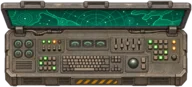
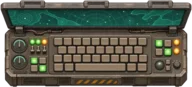
Update command facility terminal art and debris

diff --git a/js/infiltration-world.js b/js/infiltration-world.js
@@ -58,6 +58,8 @@ function indoorGenerateFloor(number,rng=Math.random,sharedStairIndex=null,second
   const center=i=>{const {c,r}=coord(i);return{x:X0+(c+.5)*SIZE,y:Y0+(r+.5)*SIZE};};
   const patterns=['H','L','T','四角','コ'];
   const commandBasement=commandFacility&&number===2;
+  const propScaleY=commandFacility?1.75*INDOOR_SCALE_X:INDOOR_SCALE_Y;
+  const cargoDepth=INDOOR_SCALE_Y/propScaleY;
   const pattern=commandBasement?'指揮室':laboratory?'外周':patterns[Math.floor(rng()*patterns.length)];
   const hall=new Set(),add=(c,r)=>hall.add(index(c,r));
   if(commandBasement){
@@ -422,7 +424,7 @@ function indoorGenerateFloor(number,rng=Math.random,sharedStairIndex=null,second
     item.primaryAsset=!!(room&&slot===0);
     const labSize=laboratory?laboratoryPropSize(item.artKind):null;
     const ar=labSize?labSize.w/labSize.h:INDOOR_PROP_ASPECT[item.artKind];if(!ar)continue;
-    const maxW=item.w*INDOOR_SCALE_X,maxH=item.h*INDOOR_SCALE_Y;
+    const maxW=item.w*INDOOR_SCALE_X,maxH=item.h*propScaleY;
     let h=Math.min(maxH,maxW/ar),w=h*ar;
     if(item.artKind==='bed'){h=104;w=h*ar;}
     if(INDOOR_PROP_LENGTH[item.artKind]){h=INDOOR_PROP_LENGTH[item.artKind];w=h*ar;}
@@ -529,16 +531,18 @@ function indoorGenerateFloor(number,rng=Math.random,sharedStairIndex=null,second
     if(count<=0)return false;
     const columns=zone==='hallway'||kind==='shellPallet'||kind==='crate'?1:2;
     const gap=kind==='shellPallet'?0:7;
-    const itemH=kind==='crate'?size/1.5/INDOOR_SCALE_Y:size;
+    const itemH=kind==='crate'?size/1.5/INDOOR_SCALE_Y:size/cargoDepth;
     const rows=Math.ceil(count/columns),width=columns*size+(columns-1)*gap,height=rows*itemH+(rows-1)*gap;
     const positions=zone==='hallway'
       ?hallCorners(width,height,14)
       :[[14,14],[SIZE-width-14,14],[14,SIZE-height-14],[SIZE-width-14,SIZE-height-14]];
     for(const [dx,dy] of positions){
+      const minY=commandFacility&&kind==='shellPallet'?4:10;
+      const startY=commandFacility&&kind==='shellPallet'?(SIZE-itemH)/2:dy;
       const items=Array.from({length:count},(_,i)=>({
-        x:xx+dx+(i%columns)*(size+gap),y:yy+dy+Math.floor(i/columns)*(itemH+gap),
+        x:xx+dx+(i%columns)*(size+gap),y:yy+startY+Math.floor(i/columns)*(itemH+gap),
         w:size,h:itemH,kind,zone,group:zone+'-'+groupId}));
-      if(dx<10||dy<10||dx+width>SIZE-10||dy+height>SIZE-10)continue;
+      if(dx<10||startY<minY||dx+width>SIZE-10||startY+height>SIZE-minY)continue;
       if(items.every(o=>isFree(o))){
         explosiveObjects.push(...items);return true;
       }
@@ -554,8 +558,9 @@ function indoorGenerateFloor(number,rng=Math.random,sharedStairIndex=null,second
       if(machineryRooms.has(owner[cell])&&!allowMachinery)continue;
       const {c,r}=coord(cell),xx=X0+c*SIZE,yy=Y0+r*SIZE;
       for(const dx of [14,46])for(const dy of [14,46]){
-        const o={x:xx+dx,y:yy+dy,w:120,h:120,kind:'shellPallet',zone:'room',group:'room-shell-large'};
-        if(distance({x:o.x+60,y:o.y+60},stair)<98||
+        const h=120/cargoDepth,top=commandFacility?(SIZE-h)/2:dy;
+        const o={x:xx+dx,y:yy+top,w:120,h,kind:'shellPallet',zone:'room',group:'room-shell-large'};
+        if(distance({x:o.x+60,y:o.y+o.h/2},stair)<98||
            doorLanes.some(d=>overlap(o,d,5))||
            walls.some(w=>overlap(o,w,3))||
            explosiveObjects.some(v=>overlap(o,v,7)))continue;
@@ -1278,7 +1283,7 @@ function setupInfiltrationWorld(commandFacility=false){
     roadBands=indoorWorld.exits.map(exit=>({x:0,y:exit.y-160,w:WW,h:320,
       kind:'asphalt',lanes:4,indoorExtractionRoad:true}));
   }
-  indoorWorld.exterior=indoorGenerateExterior(entrance,indoorSeedRng(seeds[0]^0x7e31ac09));
+  indoorWorld.exterior=commandFacility?[]:indoorGenerateExterior(entrance,indoorSeedRng(seeds[0]^0x7e31ac09));
   if(roadBands.length)indoorWorld.exterior=indoorWorld.exterior.filter(o=>!roadBands.some(r=>
     o.x+o.w>r.x&&o.x<r.x+r.w&&o.y+o.h>r.y-12&&o.y<r.y+r.h+12));
   covers.push(...indoorWorld.exterior);

diff --git a/index.html b/index.html
@@ -5,7 +5,7 @@
 <meta name="viewport" content="width=device-width, initial-scale=1, maximum-scale=1, user-scalable=no, viewport-fit=cover">
 <meta name="apple-mobile-web-app-capable" content="yes">
 <meta name="mobile-web-app-capable" content="yes">
-<title>こっそり戦車大作戦 2026.11.14.1458</title>
+<title>こっそり戦車大作戦 2026.11.14.1542</title>
 
 <style>
 .sound-control{display:flex;align-items:center;gap:7px;align-self:flex-start;width:auto;min-height:44px;margin:0;padding:0 8px 0 0;border:0;border-radius:0;background:transparent;text-align:left;color:#fff5cc;font:700 18px system-ui;cursor:pointer;touch-action:manipulation}
@@ -1027,7 +1027,7 @@ const cv=document.getElementById('c'),gm=gameCanvasContext(cv,{alpha:false}),oc=
 const canvasCreationDiagnostics={requested:MOBILE_READBACK_CANVAS,accepted:null};
 try{const attributes=gm.getContextAttributes?.();if(attributes&&typeof attributes.willReadFrequently==='boolean')canvasCreationDiagnostics.accepted=attributes.willReadFrequently;}catch(_){}
 window.tankCanvasDiagnostics=canvasCreationDiagnostics;
-const GAME_VERSION='2026.11.14.1458',FILE_CREATED_AT='2026/11/14 14:58',DRILL_ACTIVE=5,DRILL_RECHARGE=6,DIG_PREP_DURATION=.5;
+const GAME_VERSION='2026.11.14.1542',FILE_CREATED_AT='2026/11/14 15:42',DRILL_ACTIVE=5,DRILL_RECHARGE=6,DIG_PREP_DURATION=.5;
 // 表示・保存用のm換算。移動・評価は内部座標のまま扱う。
 const distanceMeters=distance=>Math.round(Math.max(0,distance)/10);
 let audioCtx=null,gameAudioOutput=null;
@@ -1616,6 +1616,7 @@ const objectsInBox=(x0,y0,x1,y1)=>spatialQuery(spatialObjectGrid,x0,y0,x1,y1);
 let lastObjectExplosionSfx=0,radioStrikeKillContext=0;
 function explodeObject(o,fxOn=true){
  if(!objects||!o)return false;const i=objects.indexOf(o);if(i<0)return false;objects.splice(i,1);
+ if(o.kind==='commandMain'||o.kind==='commandSmall')recordDecisiveComputerWreck(o);
  if(fxOn){
   const cx=o.x+o.w/2,cy=o.y+o.h/2,now=performance.now();
   if(o.enemyAirStrikeOrigin){enemyBomberBlast(cx,cy,28);return true;}
@@ -7949,6 +7950,7 @@ function draw(near){
  if(stageMode==='indoor'){
   if(debugMode>0&&typeof indoorRecordRenderTime==='function')indoorRecordRenderTime('walls',performance.now()-indoorWallDrawAt);
   drawInfiltrationOpenings(cx,cy);
+  if(isDecisiveFacility())drawDecisiveComputerWrecks(cx,cy);
  }
  drawDesertTownDoors(cx,cy);
  for(const o of objectsInBox(cx-80,cy-80,cx+W+80,cy+H+80)){if(o.x+o.w<cx-70||o.x>cx+W+70||o.y+o.h<cy-70||o.y>cy+H+70)continue;if(stageMode==='escapeTest'&&o.escapeBuildingSupply)continue;drawObject(o);}
@@ -8913,7 +8915,7 @@ function reportGameError(error){
 </script>
 <script src="js/road-trucks.js?v=2026.11.13.2242"></script>
 <script src="js/stage-progress.js?v=2026.11.12.2006"></script>
-<script src="js/decisive.js?v=2026.11.14.1450"></script>
+<script src="js/decisive.js?v=2026.11.14.1542"></script>
 <script src="js/frontline.js?v=2026.11.13.1834"></script>
 <script src="js/award-icons.js?v=2026.10.31.0807"></script>
 <script src="js/developer.js?v=2026.11.11.2308"></script>
@@ -8935,7 +8937,7 @@ function reportGameError(error){
 <script src="js/canyon.js?v=2026.11.14.0824"></script>
 <script src="js/vegetation.js?v=2026.11.08.1806"></script>
 <script src="js/laboratory.js?v=2026.10.31.2206"></script>
-<script src="js/infiltration-world.js?v=2026.11.14.1450"></script>
+<script src="js/infiltration-world.js?v=2026.11.14.1542"></script>
 <script src="js/infiltration-render.js?v=2026.11.14.1450"></script>
 <script src="js/input-diagnostics.js?v=2026.10.28.0713"></script>
 <script>

diff --git a/js/decisive.js b/js/decisive.js
@@ -17,6 +17,20 @@ function placeDecisiveRoomComputers(room,objects){
  }
 }
 
+function recordDecisiveComputerWreck(o){
+ if(!isDecisiveFacility())return;
+ decisiveBattle.computerWrecks.push({x:o.x,y:o.y,w:o.w,h:o.h,kind:o.kind});
+ indoorRefreshDamagedNavigation(o.x+o.w/2,o.y+o.h/2,Math.max(o.w,o.h));
+}
+function drawDecisiveComputerWrecks(cx,cy){
+ if(indoorWorld.currentFloor!==1)return;
+ for(const q of decisiveBattle.computerWrecks){
+  if(!drawBoundsInView(q.x,q.y,q.w,q.h,cx,cy))continue;
+  const image=COVER_IMG[q.kind==='commandMain'?'decisive_computer-large-wreck':'decisive_computer-small-wreck'];
+  const [w,h]=fitAspect(image,q.w,q.h);
+  drawAssetSprite(image,q.x+q.w/2,q.y+q.h/2,w,h);
+ }
+}
 function drawDecisiveComputerObject(o){
  const main=o.kind==='commandMain',image=COVER_IMG[main?'decisive_computer-large':'decisive_computer-small'];
  if(drawAssetSprite(image,o.x+o.w/2,o.y+o.h/2,o.w,o.h))return;
@@ -356,9 +370,9 @@ function enterDecisiveFacility(){
  d.outdoors={ZONES,roadBands,covers,objects,bushes,mud,water,bridges,cars,enemyDogs,etanks,humans,
   bombs,items,allies,builtWalls,tankWrecks,buildingGroundMarks,radio,whiteRadio,base,baseSpawnT,
   patrolRoutesVisible,roadTruckEvents,waterRipples,burningNature:[...burningNatureSet],fallen:fallenEnemies.slice()};
- d.phase='facility';stageMode='indoor';
+ d.phase='facility';d.computerWrecks=[];stageMode='indoor';
  const hp=p.hp;
- for(const key of ['computer-small','computer-large'])if(!COVER_IMG['decisive_'+key])COVER_IMG['decisive_'+key]=makeAssetImage('assets/decisive/'+key+'.webp?v='+GAME_VERSION);
+ for(const key of ['computer-small','computer-large','computer-small-wreck','computer-large-wreck'])if(!COVER_IMG['decisive_'+key])COVER_IMG['decisive_'+key]=makeAssetImage('assets/decisive/'+key+'.webp?v='+GAME_VERSION);
  setupInfiltrationWorld(true);
  setupInfiltrationMission();
  p.hp=hp;scoreStats.lastY=p.y;
@@ -396,7 +410,6 @@ function damageDecisiveComputer(x,y){
  target.done=true;
  scoreStats.objectiveProgress=.25;
  explodeObject(target.object);
- indoorRefreshDamagedNavigation(target.x,target.y,target.object.w);
  say('大型コンピューターを破壊！ 地上階のEXITへ');
 }
 function updateDecisiveFacilityExit(dt){
@@ -409,7 +422,7 @@ function updateDecisiveFacilityExit(dt){
 function beginDecisiveAssault(){
  const d=decisiveBattle;
  if(!isDecisiveFacility()||!mission?.computer?.done||mission.escapeProgress<INDOOR_EXIT_SECONDS-1e-9)return false;
- const saved=d.outdoors;d.outdoors=null;d.phase='assault';
+ const saved=d.outdoors;d.outdoors=null;d.computerWrecks=null;d.phase='assault';
  ({ZONES,roadBands,covers,objects,bushes,mud,water,bridges,cars,enemyDogs,etanks,humans,
    bombs,items,allies,builtWalls,tankWrecks,buildingGroundMarks,radio,whiteRadio,base,baseSpawnT,
    patrolRoutesVisible,roadTruckEvents,waterRipples}=saved);
